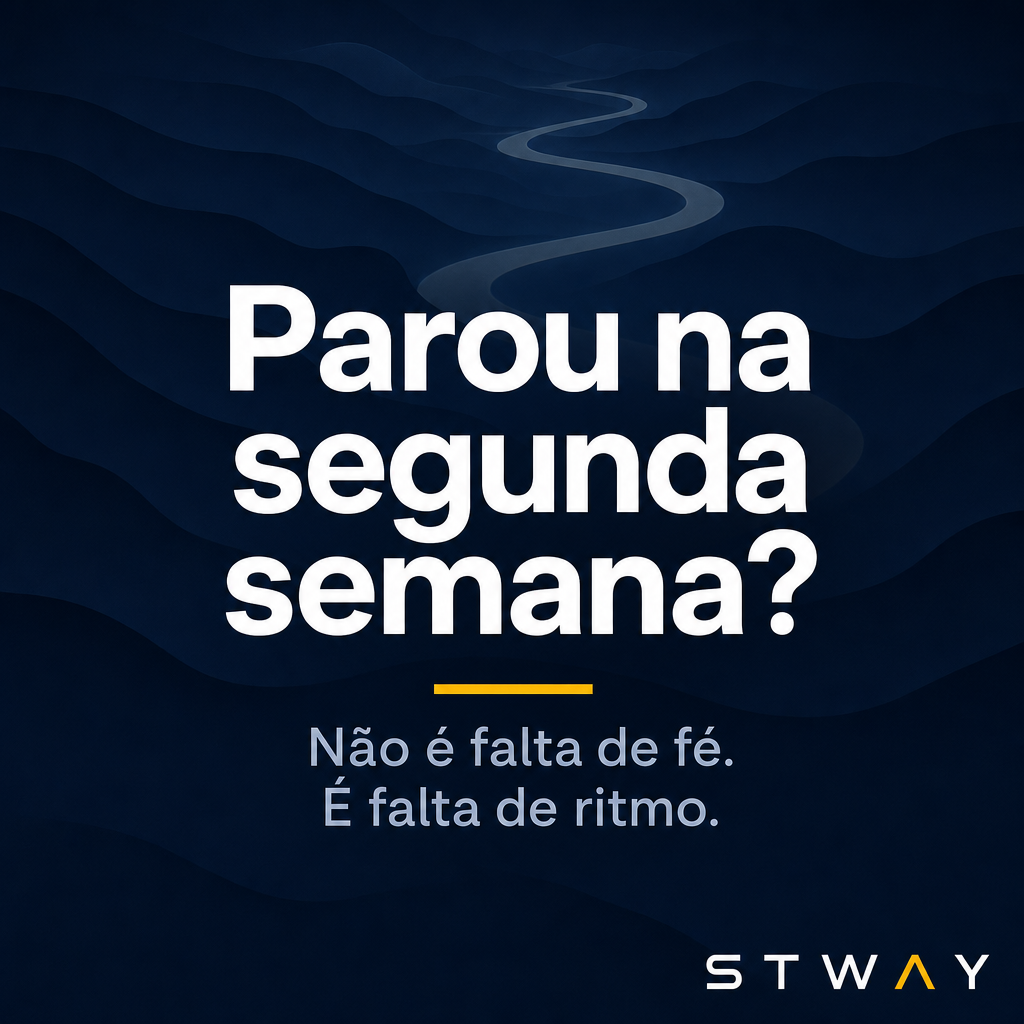
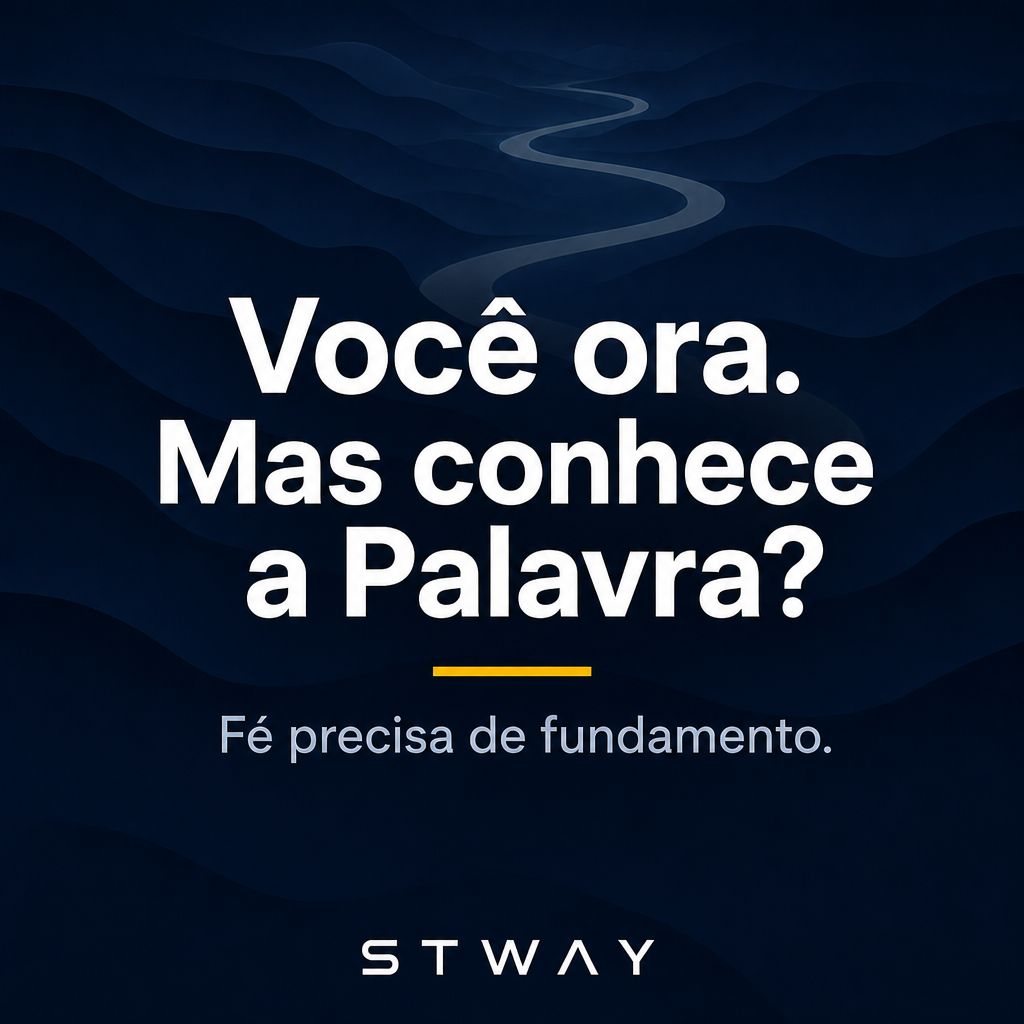
Refresh Instagram week-1 plan and arts around conscience and daily missions.

diff --git a/marketing/instagram/semana-1/PLANO.md b/marketing/instagram/semana-1/PLANO.md
@@ -1,29 +1,21 @@
 # Plano Instagram — Semana 1 (STWAY)
 
-Tema: **lançar a conta + educar + gerar desejo**.  
-Tom: direto, bíblico, sem “coach spiritual” genérico.
+Tema: **acordar a consciência cristã + lançar desejo pelo app**.  
+Tom: direto, bíblico, confrontador com graça — sem coach espiritual genérico.
 
 ## Bio
 
 **Nome do perfil:** `STWAY`  
 **Nome de exibição:** `STWAY · Bíblia em missões`
 
-**Bio (opção forte)**
+**Bio**
 ```
 A Bíblia em missões diárias.
 
-Aprenda · memorize · avance na trilha.
-Formação bíblica com hábito — sem enrolação.
+Ler. Memorizar. Avançar.
+Um passo por dia na Palavra.
 
 Em breve no iOS e Android
-```
-
-**Alternativa mais curta**
-```
-Missões diárias pra aprender a Bíblia.
-Trilhas · quizzes · hábito que fica.
-
-Baixe em breve
 ```
 
 **Link na bio:** landing / waitlist / App Store quando tiver  
@@ -35,156 +27,250 @@ Baixe em breve
 
 Pasta: `marketing/instagram/semana-1/`
 
-| Dia | Arquivo | Tema |
-|-----|---------|------|
-| Seg | `01-segunda-apresentacao.png` | Apresentação |
-| Ter | `02-terca-problema.png` | Problema |
-| Qua | `03-quarta-como-funciona.png` | Como funciona |
-| Qui | `04-quinta-genesis.png` | Conteúdo (Gênesis) |
-| Sex | `05-sexta-produto.png` | Bastidores / produto |
-| Sáb | `06-sabado-enquete.png` | Enquete |
-| Dom | `07-domingo-cta.png` | CTA lançamento |
-
-Tagline atual na arte de segunda:
-```
-um passo.
-uma jornada.
-uma comunidade.
-```
+| Dia | Arquivo | Tema | Frase da arte |
+|-----|---------|------|---------------|
+| Seg | `01-segunda-apresentacao.png` | Confrontação | A Bíblia fechada não muda ninguém. |
+| Ter | `02-terca-problema.png` | Consciência | Você ora. Mas conhece a Palavra? |
+| Qua | `03-quarta-como-funciona.png` | Escritura | O povo perece por falta de conhecimento. |
+| Qui | `04-quinta-genesis.png` | Discipulado | Discipulado começa na Palavra. |
+| Sex | `05-sexta-produto.png` | Chamado | Missão do dia: abrir a Bíblia. |
+| Sáb | `06-sabado-enquete.png` | Enquete | Se a Bíblia sumisse… você sentiria falta? |
+| Dom | `07-domingo-cta.png` | CTA | Um dia. Um passo. Uma Missão. |
 
 ---
 
 ## Postagens
 
-### Segunda — Apresentação
-**Visual:** logo STWAY + fundo escuro (#050C18)  
+### Segunda — Confrontação (apresentação)
+**Visual:** frase forte + logo STWAY  
 **Arquivo:** `01-segunda-apresentacao.png`
+
+**Arte:**
+```
+A Bíblia fechada
+não muda ninguém.
+```
+Sub: `Abra. Estude. Viva.`
 
 **Legenda:**
 ```
-A Bíblia não precisa ser um livro parado na prateleira.
+A Bíblia na prateleira não transforma coração.
+Nem intenção. Nem “um dia eu leio”.
 
-STWAY transforma o aprendizado em missões diárias:
-você lê, responde, avança na trilha — e cria hábito.
+Só a Palavra aberta — lida, estudada, vivida.
+
+STWAY transforma isso em missões diárias:
+você lê, responde, memoriza e avança na trilha.
+
+Porque cristão sem Escritura
+é discípulo sem mapa.
 
 Bem-vindo. Sua primeira missão te espera.
 
-#STWAY #Biblia #FormacaoBiblica
+#STWAY #Biblia #PalavraDeDeus
 ```
 
-### Terça — Problema
-**Visual:** frase grande na tela  
+---
+
+### Terça — Consciência
+**Visual:** pergunta que incomoda  
 **Arquivo:** `02-terca-problema.png`
 
+**Arte:**
+```
+Você ora.
+Mas conhece a Palavra?
+```
+Sub: `Fé precisa de fundamento.`
+
 **Legenda:**
 ```
-Você já tentou “ler a Bíblia todo dia”
-e parou na segunda semana?
+Você louva.
+Você pede.
+Você compartilha versículo pronto.
 
-Não é falta de fé.
-É falta de ritmo.
+Mas quando foi a última vez
+que você ESTUDOU a Bíblia de verdade?
 
-STWAY foi feito pra isso:
-missões curtas, progresso claro, um passo por vez.
+Não é cobrança.
+É convite.
 
-#Habito #BibliaDiaria #STWAY
+Porque fé sem Escritura
+vira opinião.
+
+STWAY existe pra isso:
+missões curtas, progresso claro, um passo por dia.
+
+#ConscienciaCrista #BibliaDiaria #STWAY
 ```
 
-### Quarta — Como funciona
-**Visual:** mockup do app (home / missão)  
+---
+
+### Quarta — Escritura (Os 4:6)
+**Visual:** versículo + impacto  
 **Arquivo:** `03-quarta-como-funciona.png`
 
+**Arte:**
+```
+“O meu povo está sendo
+destruído, porque lhe falta
+o conhecimento.”
+```
+Sub: `Oséias 4:6`
+
 **Legenda:**
 ```
-Como o STWAY funciona:
+Não é falta de culto.
+Não é falta de louvor.
+É falta de conhecimento da Palavra.
 
+Deus não escondeu o diagnóstico.
+A pergunta é: o que você vai fazer com ele?
+
+No STWAY:
 1. Escolha uma trilha (ex: Gênesis)
 2. Faça a missão do dia
 3. Responda, memorize, avance
 4. Volte amanhã
 
-Aprendizado bíblico com cara de jornada —
-não de lista interminável.
+Conhecer a Bíblia não é hobby cristão.
+É sobrevivência espiritual.
 
-#AppCristao #TrilhaBiblica #STWAY
+#Oseias46 #Escritura #STWAY
 ```
 
-### Quinta — Conteúdo bíblico (prova de valor)
-**Visual:** versículo + arte simples (ex. Gn 1:1 ou Gn 3:15)  
+---
+
+### Quinta — Discipulado
+**Visual:** frase de discipulado  
 **Arquivo:** `04-quinta-genesis.png`
+
+**Arte:**
+```
+Discipulado
+começa na Palavra.
+```
+Sub: `Não no feeling. Na Escritura.`
 
 **Legenda:**
 ```
-“No princípio…”
+Seguir Jesus sem conhecer a Escritura
+é caminhar no escuro chamando de fé.
+
+Discipulado de verdade começa assim:
+abrir a Bíblia. Todo dia. Com intenção.
 
 A trilha de Gênesis no STWAY não é só quiz.
-É contexto, pergunta, feedback — e a Bíblia ao alcance.
+É contexto, pergunta, feedback —
+e a Palavra ao alcance da mão.
 
-Porque conhecer a Escritura muda como você vê tudo.
+Porque quem conhece a Escritura
+enxerga o mundo diferente.
 
 Qual livro você quer aprender primeiro?
 Comenta aí.
 
-#Genesis #EstudoBiblico #STWAY
+#Discipulado #Genesis #STWAY
 ```
 
-### Sexta — Bastidores / produto
-**Visual:** screenshot da trilha ou onboarding  
+---
+
+### Sexta — Chamado / produto
+**Visual:** missão do dia  
 **Arquivo:** `05-sexta-produto.png`
+
+**Arte:**
+```
+Missão do dia:
+abrir a Bíblia.
+```
+Sub: `Sem desculpa. Sem amanhã.`
 
 **Legenda:**
 ```
+Não precisa de mais um sermão salvo.
+Precisa de um hábito santo.
+
 Por trás do STWAY:
+• Trilhas cinematográficas
+• Missões diárias
+• Bíblia offline
+• Progresso que você sente
 
-Trilhas cinematográficas.
-Missões diárias.
-Bíblia offline.
-Progresso que você sente.
+Estamos construindo um app pra quem
+cansou de adiar o estudo da Palavra.
 
-Estamos construindo um app pra quem quer
-conhecer a Bíblia de verdade — e continuar.
+Se isso te incomodou um pouco —
+bom. Consciência viva ainda responde.
 
-Salva esse post se isso faz sentido pra você.
+Salva. Segue. Em breve.
 
 #EmBreve #AppBiblico #STWAY
 ```
 
-### Sábado — Engajamento
-**Visual:** pergunta em tipografia forte  
+---
+
+### Sábado — Enquete (consciência)
+**Visual:** pergunta pesada  
 **Arquivo:** `06-sabado-enquete.png`
+
+**Arte:**
+```
+Se a Bíblia sumisse
+da sua vida por 30 dias…
+você sentiria falta?
+```
+Sub: `Responde com sinceridade.`
 
 **Legenda:**
 ```
-Pergunta sincera:
+Pergunta sem filtro:
 
-O que mais te impede de estudar a Bíblia com constância?
+Se a Bíblia sumisse da sua vida por 30 dias…
 
-A) Tempo
-B) Não sei por onde começar
-C) Esqueço
-D) Acho difícil
+A) Quase não notaria
+B) Sentiria, mas seguiria normal
+C) Ia doer de verdade
+D) Já está sumida há mais tempo que isso
 
 Responde com a letra.
-A gente está construindo o STWAY olhando pra isso.
+Sem vergonha — com consciência.
+
+A gente está construindo o STWAY
+exatamente pra quem escolheu C ou D
+e quer mudar isso.
 
 #Pesquisa #Biblia #STWAY
 ```
 
-### Domingo — Inspiração + CTA
-**Visual:** cena calma + logo  
+---
+
+### Domingo — CTA
+**Visual:** jornada + logo  
 **Arquivo:** `07-domingo-cta.png`
+
+**Arte:**
+```
+Um dia.
+Um passo.
+Uma Missão.
+```
+Sub: `É assim que grandes jornadas começam.`
 
 **Legenda:**
 ```
-Um dia. Uma missão. Um passo.
+Um dia. Um passo. Uma Missão.
 
-A formação bíblica não nasce de um sprint —
-nasce do retorno diário.
+Grandes jornadas com Deus
+não começam no culto perfeito.
+Começam no retorno diário à Palavra.
 
-Se você quer aprender a Bíblia com ritmo,
+Se você sente o peso de conhecer a Bíblia
+e ainda não encontrou ritmo —
 o STWAY está chegando.
 
 Segue pra acompanhar o lançamento.
+Sua próxima missão pode começar em breve.
 
 #Domingo #MissoesDiarias #STWAY
 ```
@@ -195,10 +281,10 @@ Segue pra acompanhar o lançamento.
 
 | Dia | Story |
 |-----|--------|
-| Seg | “Conta nova · quem é o STWAY” + enquete “já estudou Bíblia no celular?” |
-| Ter | Antes/depois: “vontade vs hábito” |
-| Qua | 3 slides: como funciona |
-| Qui | Quiz rápido (1 pergunta de Gênesis) |
-| Sex | Peek do app |
-| Sáb | Caixinha de perguntas |
-| Dom | “Missão de domingo: leia 1 capítulo hoje” |
+| Seg | “A Bíblia fechada não muda ninguém” + enquete “sua Bíblia está aberta ou na prateleira?” |
+| Ter | “Você ora. Mas conhece a Palavra?” + sticker de reação |
+| Qua | Oséias 4:6 em 1 slide + “isso te confrontou?” |
+| Qui | Quiz: “Discipulado começa onde?” (Palavra / culto / feeling) |
+| Sex | Peek do app + “missão do dia: abrir a Bíblia” |
+| Sáb | Caixinha: “o que te impede de estudar a Bíblia?” |
+| Dom | “Missão de domingo: leia 1 capítulo hoje. Depois conta.” |
